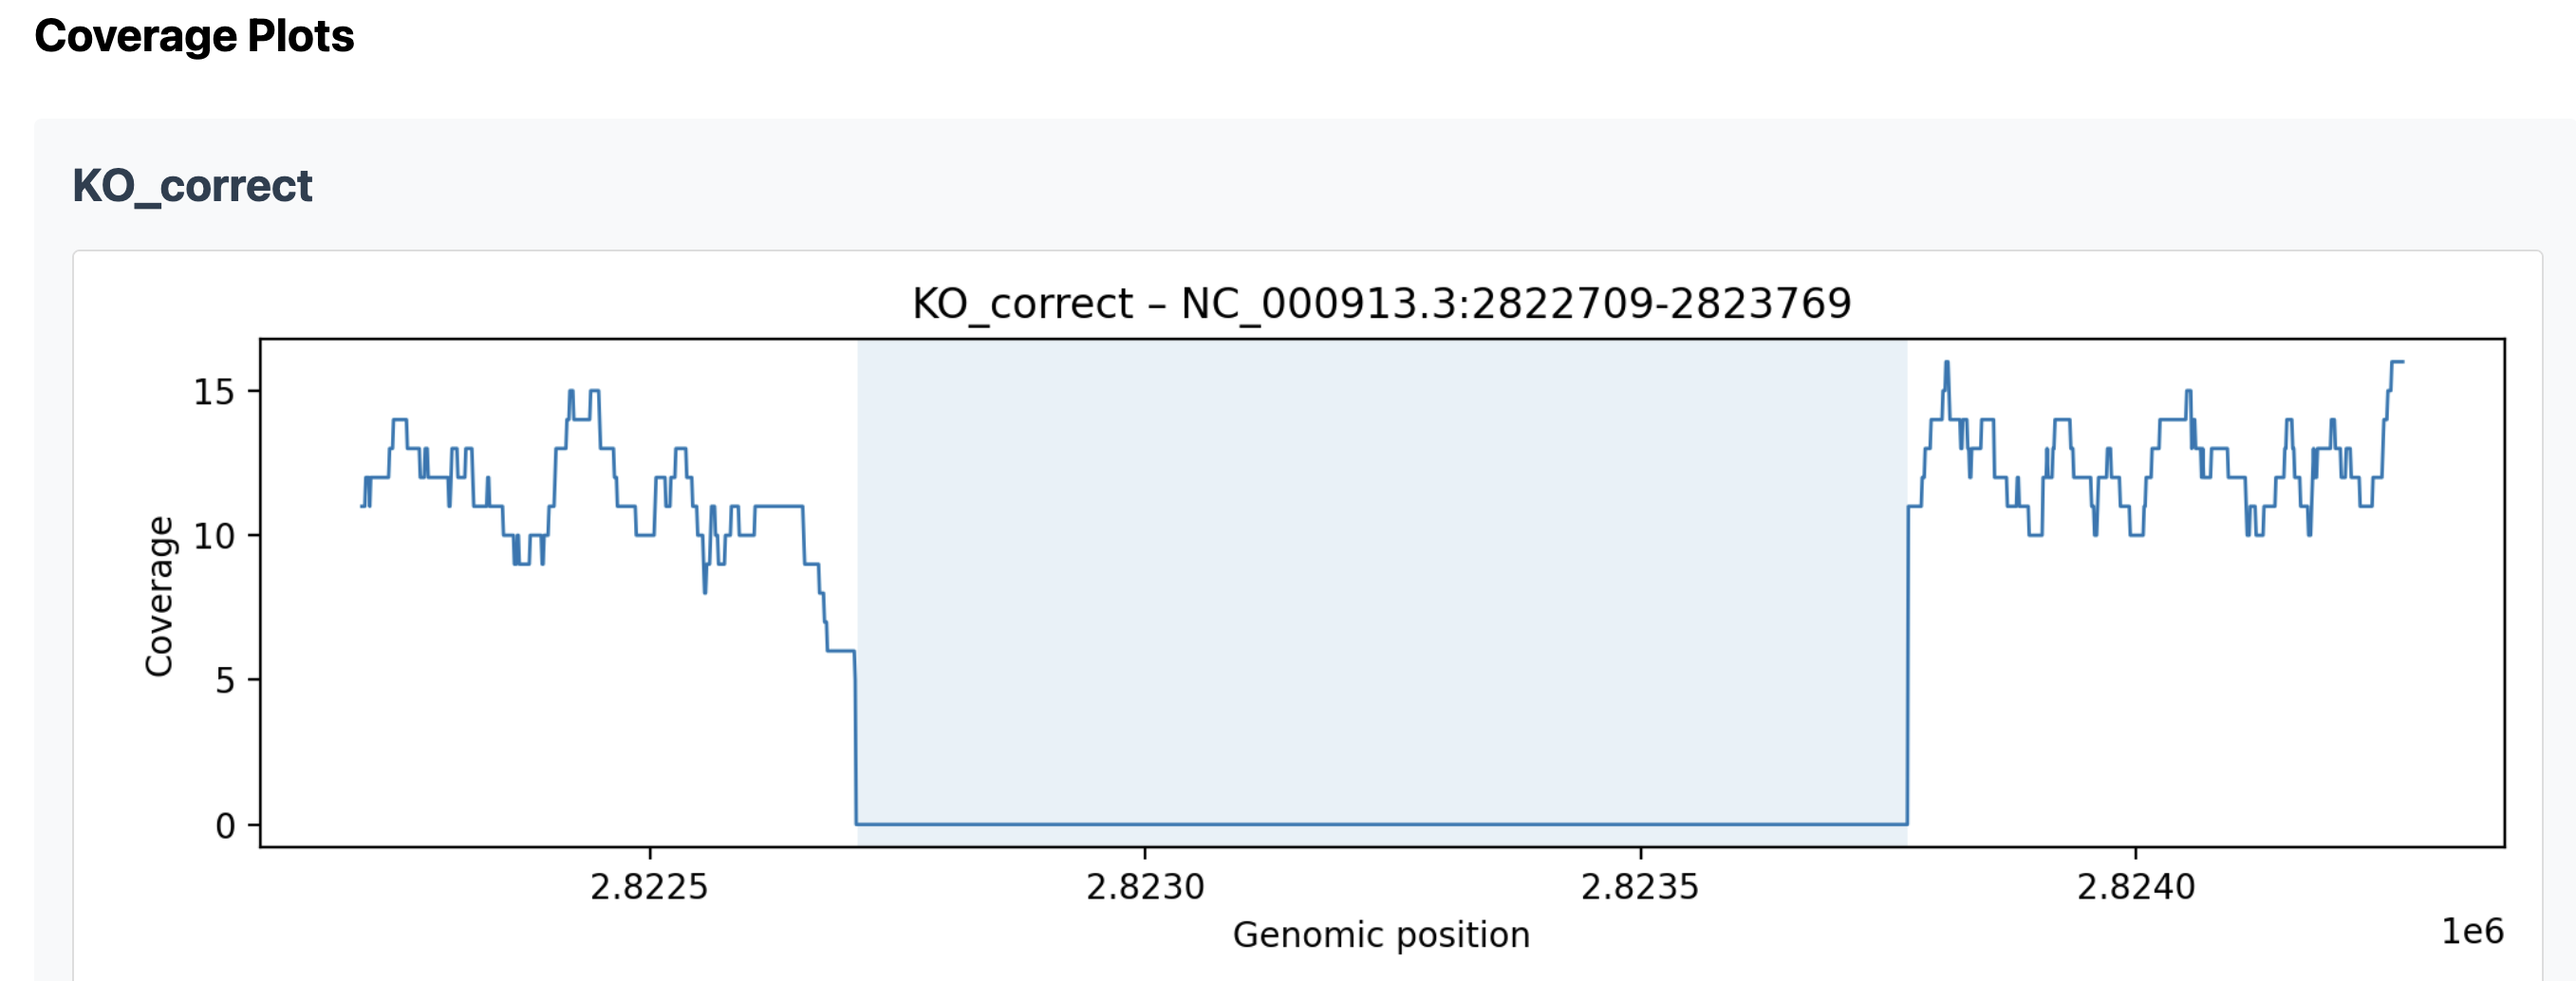
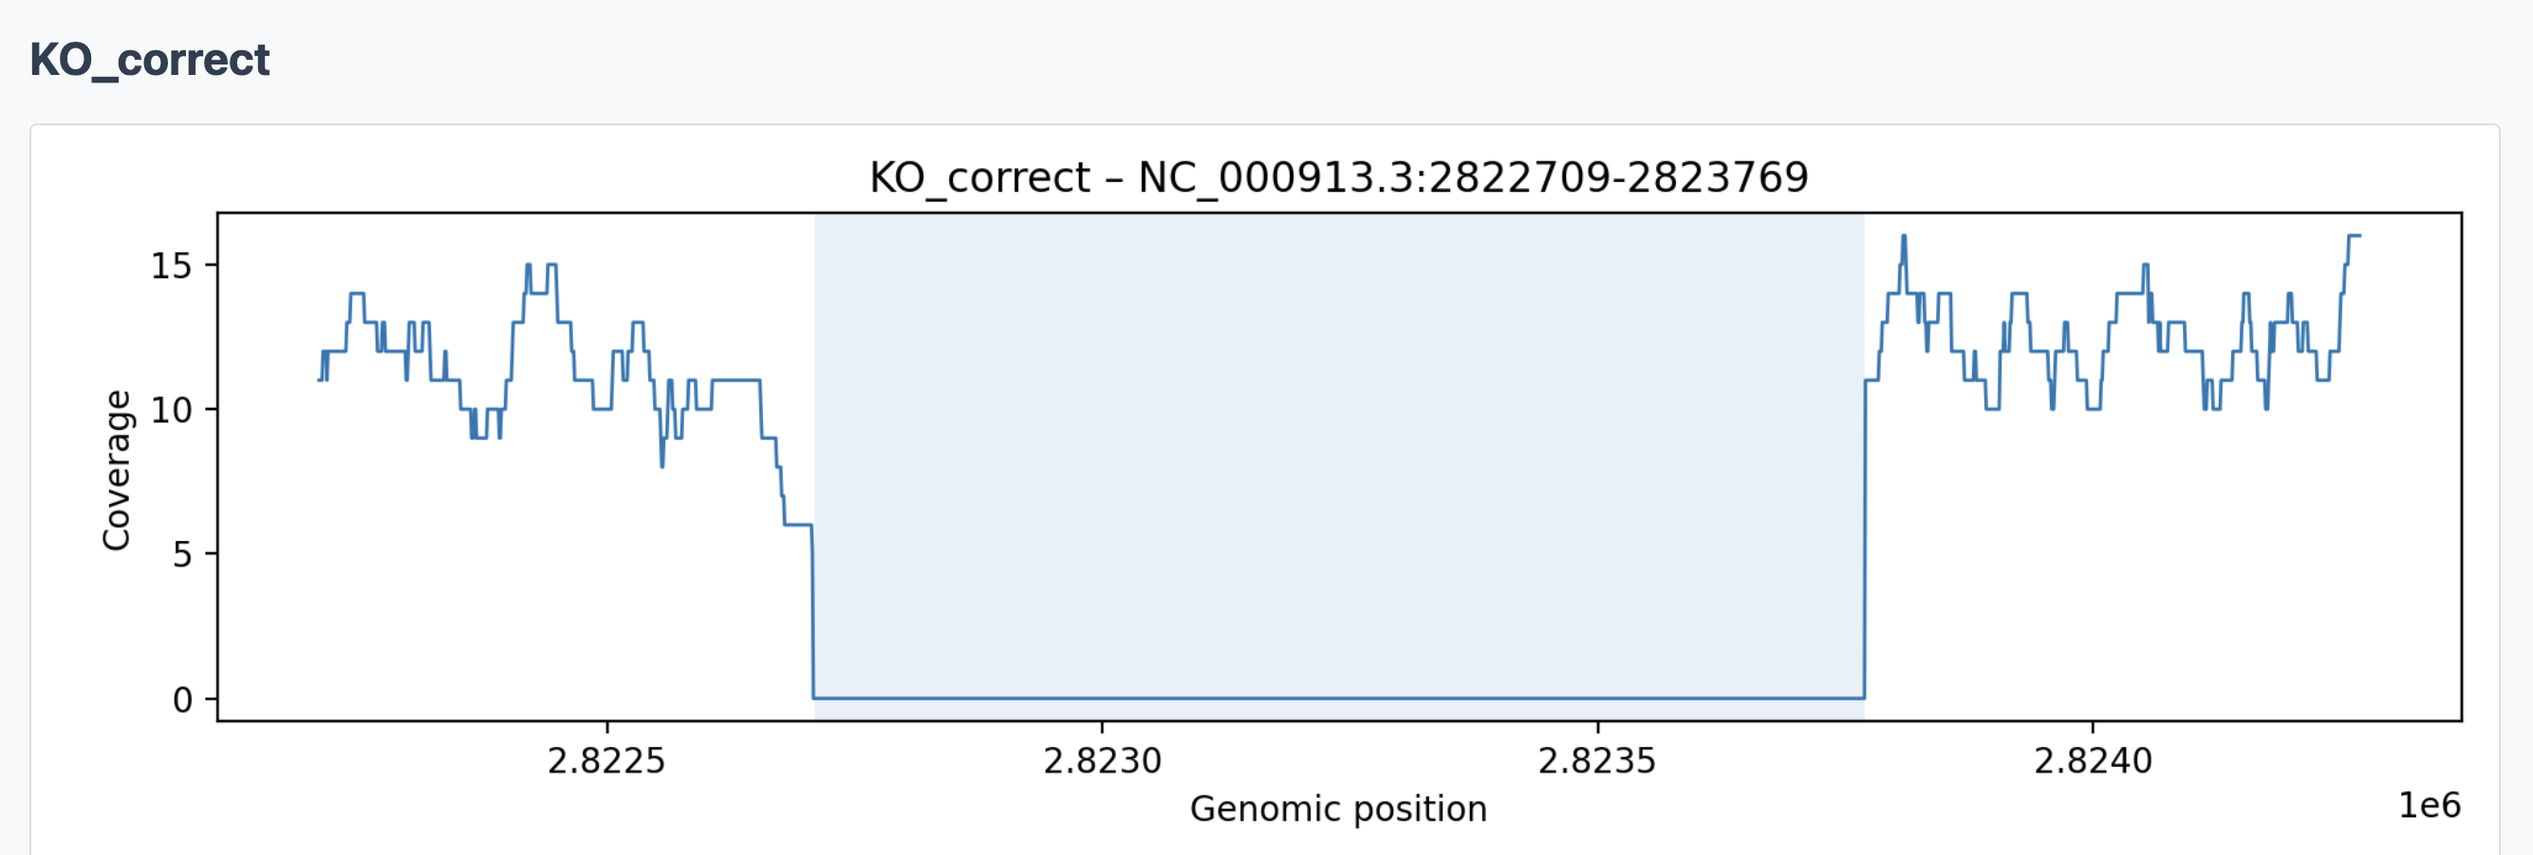
reorder README sections and crop coverage plot example image

diff --git a/README.md b/README.md
@@ -1,6 +1,6 @@
 # KOCheck ✅
 
-A reproducible [Nextflow](https://www.nextflow.io/) pipeline for validating genetic knockouts. KOCheck analyzes short-read (Illumina) sequencing reads to confirm gene deletions, detect correct resistance marker insertion, and identify ectopic integrations across the genome. Designed primarily for microbiological and fungal genetic workflows.
+A scalable [Nextflow](https://www.nextflow.io/) pipeline for validating genetic knockouts. KOCheck analyzes short-read (Illumina) sequencing reads to confirm gene deletions, detect correct resistance marker insertion, and identify ectopic integrations across the genome. Designed primarily for microbiological and fungal genetic workflows.
 
 ## Features
 
@@ -12,6 +12,38 @@ A reproducible [Nextflow](https://www.nextflow.io/) pipeline for validating gene
 - **Comprehensive Reporting**: CSV outputs for deletion status and marker presence
 - **Summary Reports**: Aggregated CSV and interactive HTML report with all sample results and embedded coverage plots
 
+## Workflow Overview
+
+```mermaid
+graph TD
+    A["📁 FASTQ Files<br/>(Paired-end reads)"] --> B["✂ FASTP<br/>(QC & Trimming)"]
+    B --> C["🗺 BWA-MEM2<br/>(Alignment)"]
+    C --> D["🔍 MOSDEPTH<br/>(Coverage Analysis)"]
+    D --> E["🔍 DELETION_CHECK<br/>(Gene Coverage)"]
+    E --> F["🔍 MARKER_CHECK<br/>(Marker & Junctions Analysis)"]
+    F --> G["📈 COVERAGE_PLOT<br/>(Visualization)"]
+    G --> H["📋 AGGREGATE_RESULTS<br/>(Summary Report)"]
+    H --> H2["🎯 Final Classification<br/>(PASS / REVIEW / FAIL)"]
+    
+    B -.-> B1["📊 QC Reports<br/>(*.fastp.html/.json)"]
+    C -.-> C1["📦 BAM Files<br/>(*.bam, *.bam.bai)"]
+    D -.-> D1["📚 Coverage Files<br/>(*.mosdepth.summary.txt)"]
+    E -.-> E1["📚 deletion_status.csv<br/>(Coverage Ratio)"]
+    F -.-> F1["📚 marker_status.csv<br/>(Marker Present?<br/>Junction Support)"]
+    G -.-> G1["📈 Coverage Plots<br/>(*.coverage.png)"]
+    H -.-> H1["📚 summary.csv<br/>🖼 summary.html"]
+    
+    style A fill:#1e88e5,color:#fff
+    style H2 fill:#00c853,color:#fff
+    style B1 fill:#ff6f00,color:#fff
+    style C1 fill:#ff6f00,color:#fff
+    style D1 fill:#ff6f00,color:#fff
+    style E1 fill:#ff6f00,color:#fff
+    style F1 fill:#ff6f00,color:#fff
+    style G1 fill:#ff6f00,color:#fff
+    style H1 fill:#ff6f00,color:#fff
+```
+
 ## Quick Start (Easiest Method)
 
 **For users with minimal command-line experience:**
@@ -21,11 +53,11 @@ The easiest way to run KOCheck is using a graphical user interface (GUI) which i
 1. **Download the GUI launcher**
 - Right click on [this link](https://raw.githubusercontent.com/meadm/KOCheck/main/run_kocheck_gui.py)
 - Select `Save Link As...`
-- Save as a text file
+- Save the file as `run_kocheck_gui.py`
 
 2. **Make sure Docker is installed and running**
 
-- In a terminal type:
+- Open a terminal and run:
 ```bash
 docker run hello-world
 ```
@@ -62,7 +94,7 @@ docker pull meadm/kocheck:latest
 
 ### Option 2: Local Installation
 
-If you already have [Nextflow](https://www.nextflow.io/docs/latest/install.html)(or are able to make a minimal conda environment containing it - see below), [Conda](https://conda-forge.org/download/), and [Docker](https://docs.docker.com/desktop/) installed on your computer, you can run the pipeline directly without using the Docker image. This is useful if you want to modify the pipeline or prefer running Nextflow natively.
+If you already have [Nextflow](https://www.nextflow.io/docs/latest/install.html) (or are able to make a minimal conda environment containing it - see below), [Conda](https://conda-forge.org/download/), and [Docker](https://docs.docker.com/desktop/) installed on your computer, you can run the pipeline directly without using the Docker image. This is useful if you want to modify the pipeline or prefer running Nextflow natively.
 
 **Requirements:**
 - Nextflow (>= 22.10.0)
@@ -117,22 +149,22 @@ nextflow run main.nf \
   --marker_fasta path/to/marker.fasta
 ```
 
-### Example with Test Data
+## Example with Test Data
 
 The repository includes test data in `assets/testdata/` that demonstrates different knockout scenarios:
 
-**Test Samples:**
+### Test Samples:
 - `KO_correct_*`: Successful knockout - gene deleted, marker correctly inserted (expected category: **PASS**)
 - `KO_ectopic_*`: Knockout with ectopic marker insertion - gene deleted but marker in wrong location (expected category: **REVIEW**)
 - `WT_ectopic_*`: Wildtype with ectopic marker - gene intact, marker present elsewhere (expected category: **REVIEW**)
 - `WT_*`: Wildtype control - gene intact, no marker (expected category: **FAIL**)
 
-**Reference Files:**
+### Reference Files:
 - `ref.fasta`: Reference genome FASTA file
 - `target_gene.bed`: BED file with target gene coordinates (0-based, half-open format)
 - `kanR.fasta`: Resistance marker sequence (kanamycin resistance gene)
 
-**Run the pipeline with test data:**
+## Run the pipeline with test data:
 ```bash
 nextflow run main.nf \
   --reads "assets/testdata/*_{R1,R2}.fq.gz" \
@@ -162,39 +194,7 @@ This will process all test samples and generate results demonstrating the differ
 - `--flank`: Flanking region size in bp for coverage plots and junction analysis (default: `500`)
 - `--min_mapq`: Minimum mapping quality for junction support analysis (default: `20`)
 
-## Workflow
-
-The pipeline workflow is shown below:
-
-```mermaid
-graph TD
-    A["📁 FASTQ Files<br/>(Paired-end reads)"] --> B["✂ FASTP<br/>(QC & Trimming)"]
-    B --> C["🗺 BWA-MEM2<br/>(Alignment)"]
-    C --> D["🔍 MOSDEPTH<br/>(Coverage Analysis)"]
-    D --> E["🔍 DELETION_CHECK<br/>(Gene Coverage)"]
-    E --> F["🔍 MARKER_CHECK<br/>(Marker & Junctions Analysis)"]
-    F --> G["📈 COVERAGE_PLOT<br/>(Visualization)"]
-    G --> H["📋 AGGREGATE_RESULTS<br/>(Summary Report)"]
-    H --> H2["🎯 Final Classification<br/>(PASS / REVIEW / FAIL)"]
-    
-    B -.-> B1["📊 QC Reports<br/>(*.fastp.html/.json)"]
-    C -.-> C1["📦 BAM Files<br/>(*.bam, *.bam.bai)"]
-    D -.-> D1["📚 Coverage Files<br/>(*.mosdepth.summary.txt)"]
-    E -.-> E1["📚 deletion_status.csv<br/>(Coverage Ratio)"]
-    F -.-> F1["📚 marker_status.csv<br/>(Marker Present?<br/>Junction Support)"]
-    G -.-> G1["📈 Coverage Plots<br/>(*.coverage.png)"]
-    H -.-> H1["📚 summary.csv<br/>🖼 summary.html"]
-    
-    style A fill:#1e88e5,color:#fff
-    style H2 fill:#00c853,color:#fff
-    style B1 fill:#ff6f00,color:#fff
-    style C1 fill:#ff6f00,color:#fff
-    style D1 fill:#ff6f00,color:#fff
-    style E1 fill:#ff6f00,color:#fff
-    style F1 fill:#ff6f00,color:#fff
-    style G1 fill:#ff6f00,color:#fff
-    style H1 fill:#ff6f00,color:#fff
-```
+## Detailed Workflow Description
 
 The pipeline consists of the following steps:
 
